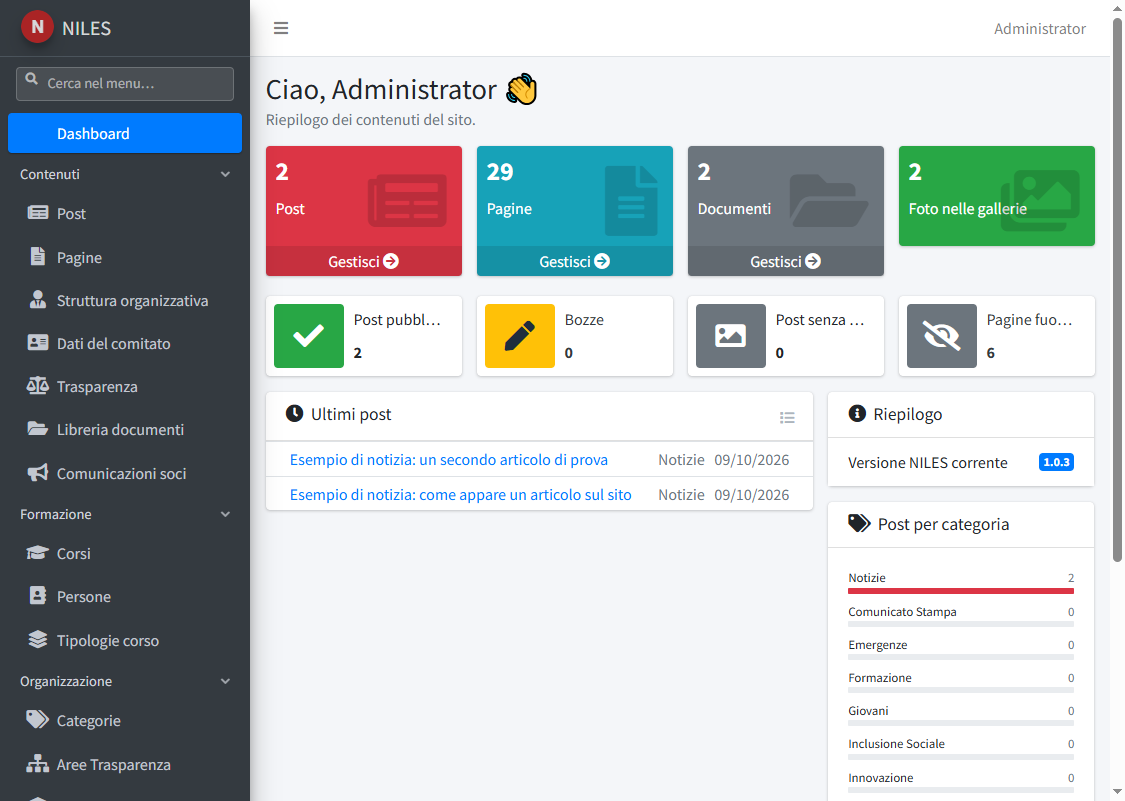
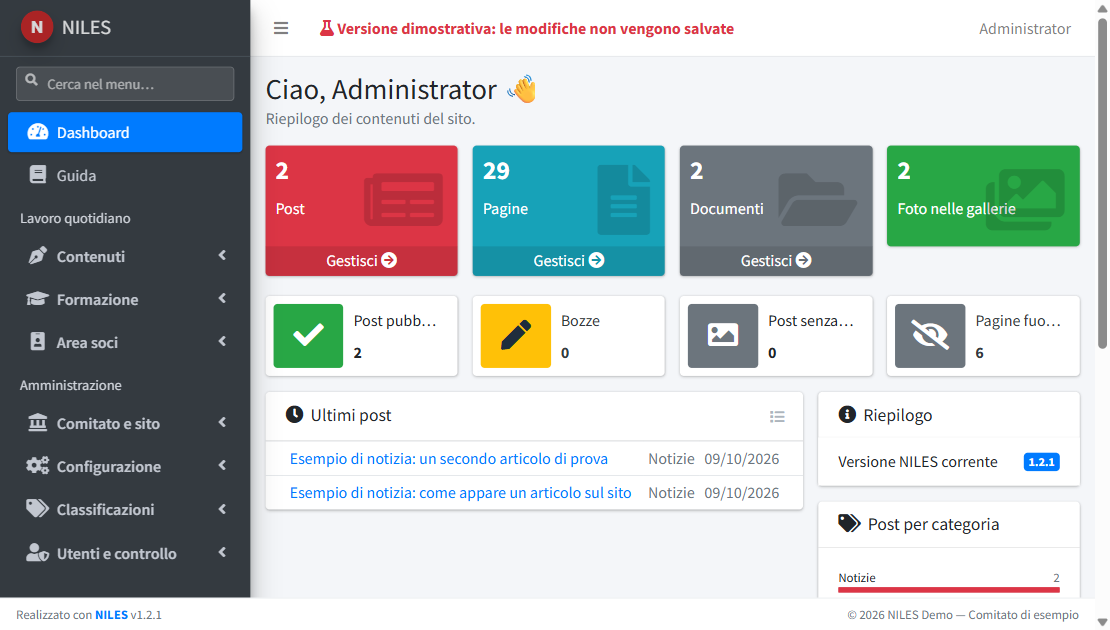
fix: modulo pubblico di iscrizione ai corsi bloccato nella 1.2.0 (1.2.1)
Nello script della pagina di iscrizione mancava il punto e virgola dopo
la riga con i nominativi inviati. Blade toglie il ritorno a capo dopo la
direttiva e la riga si univa alla successiva: l'errore di sintassi
fermava tutto il modulo (modalità, nominativi, fatturazione, invio).
Aggiunto il punto e virgola e un test sul codice generato.

Rilascio 1.2.1: data nel CHANGELOG, roadmap della documentazione
aggiornata, schermata della dashboard nella guida.

diff --git a/tests/Feature/PagamentiCorsiTest.php b/tests/Feature/PagamentiCorsiTest.php
@@ -49,7 +49,9 @@ class PagamentiCorsiTest extends TestCase
         \App\Models\CommitteeInfo::current()->update(['metodi_pagamento' => ['Bonifico', 'Contanti']]);
 
         // Il nome del campo è un'espressione Alpine: se l'HTML fosse codificato due volte (&amp;#039;) Alpine darebbe errore di sintassi.
-        $this->get('/corsi/blsd-1/iscrizione')->assertOk()->assertSee('metodo_pagamento')->assertDontSee('&amp;#039;', false);
+        $this->get('/corsi/blsd-1/iscrizione')->assertOk()->assertSee('metodo_pagamento')->assertDontSee('&amp;#039;', false)
+            // Blade toglie il ritorno a capo dopo la direttiva js: senza punto e virgola la riga si unisce a «return {» e il modulo non funziona.
+            ->assertSee('const inviati = [];', false);
     }
 
     private function editor(array $permessi): Admin

diff --git a/resources/views/corsi/iscrizione.blade.php b/resources/views/corsi/iscrizione.blade.php
@@ -334,7 +334,7 @@
     function iscrizioneForm() {
         const vuoto = () => ({ nome: '', cognome: '', email: '', telefono: '', codice_fiscale: '', via: '', comune: '', provincia: '', cap: '',
             data_nascita: '', nascita_luogo: 'italia', nascita_stato_altro: '', nascita_comune: '', nascita_provincia: '', fatturazione: {} })
-        const inviati = @js($nominativiInviati)
+        const inviati = @js($nominativiInviati);   // punto e virgola necessario: Blade toglie il ritorno a capo dopo la direttiva js e senza di esso questa riga si unirebbe alla successiva
         return {
             modalita: @js(old('modalita_ui') === 'altri' ? 'altri' : 'solo-me'),
             fatturazioneUnica: {{ old('fatturazione_unica', ! session()->hasOldInput()) ? 'true' : 'false' }},

diff --git a/ROADMAP.md b/ROADMAP.md
@@ -30,12 +30,12 @@ Versione attuale e funzioni già rilasciate: vedi il [changelog](CHANGELOG.md) e
   reversibile (i dati restano nel database).
 
 ### Documentazione
-- **Guide d'uso dentro il pannello**: procedure per chi usa il pannello, divise per argomento (accesso, dati del comitato e
-  configurazione, utenti, pagine e pagine di sistema, post e campi utili alla SEO, Trasparenza, formazione), con immagini e scaricabili in
-  PDF, raggiungibili dal menu da tutti gli utenti.
-
-Completamento della [guida](docs/README.md), un argomento per volta. Parti ancora mancanti:
-- area soci: documenti riservati, categorie riservate, registro dei download e uso dell'area dal lato del socio;
+Completamento della [guida](docs/README.md), consultabile anche dal pannello (voce «Guida»), un argomento per volta. Parti ancora mancanti:
+- formazione: pagamenti dei corsi, iscrizione dal lato del sito, aggiornamento di corsi, persone e tipologie alla versione attuale;
+- area soci: documenti riservati, categorie riservate e uso dell'area dal lato del socio;
+- comitato e sito, configurazione: loghi e immagini, coordinate e pagamenti, link del footer, funzioni attive;
+- utenti e controllo: registro dei download, permessi attuali;
+- schermate dell'aggiornamento dal pannello;
 - installazione di un server di sviluppo, con le differenze rispetto alla produzione;
 - migrazione da un CMS esistente, insieme allo strumento di migrazione.
 

diff --git a/CHANGELOG.md b/CHANGELOG.md
@@ -4,7 +4,9 @@ Elenco delle modifiche di ogni versione, dalla più recente. Le versioni seguono
 incrementano la seconda cifra, le correzioni e i miglioramenti la terza. Le release complete, con i pacchetti scaricabili, sono su
 [GitHub](https://github.com/luigidacunto/niles-cms/releases). Le direzioni future sono nella [roadmap](ROADMAP.md).
 
-## 1.2.1 — 2026-11-05
+## 1.2.1 — 2026-11-06
+- **Correzione importante: modulo pubblico di iscrizione ai corsi.** Nella 1.2.0 un errore nello script della pagina bloccava il modulo
+  (scelta della modalità, nominativi e invio non funzionavano). Chi usa la 1.2.0 deve aggiornare.
 - **Guida nel pannello** (voce «Guida» del menu, per tutti gli utenti): mostra i documenti della cartella `docs/`, gli stessi pubblicati sul
   repository, con indice, immagini e collegamenti tra le pagine; ogni pagina si scarica in PDF. I collegamenti a script e file fuori dalla
   guida aprono il repository alla versione installata.
